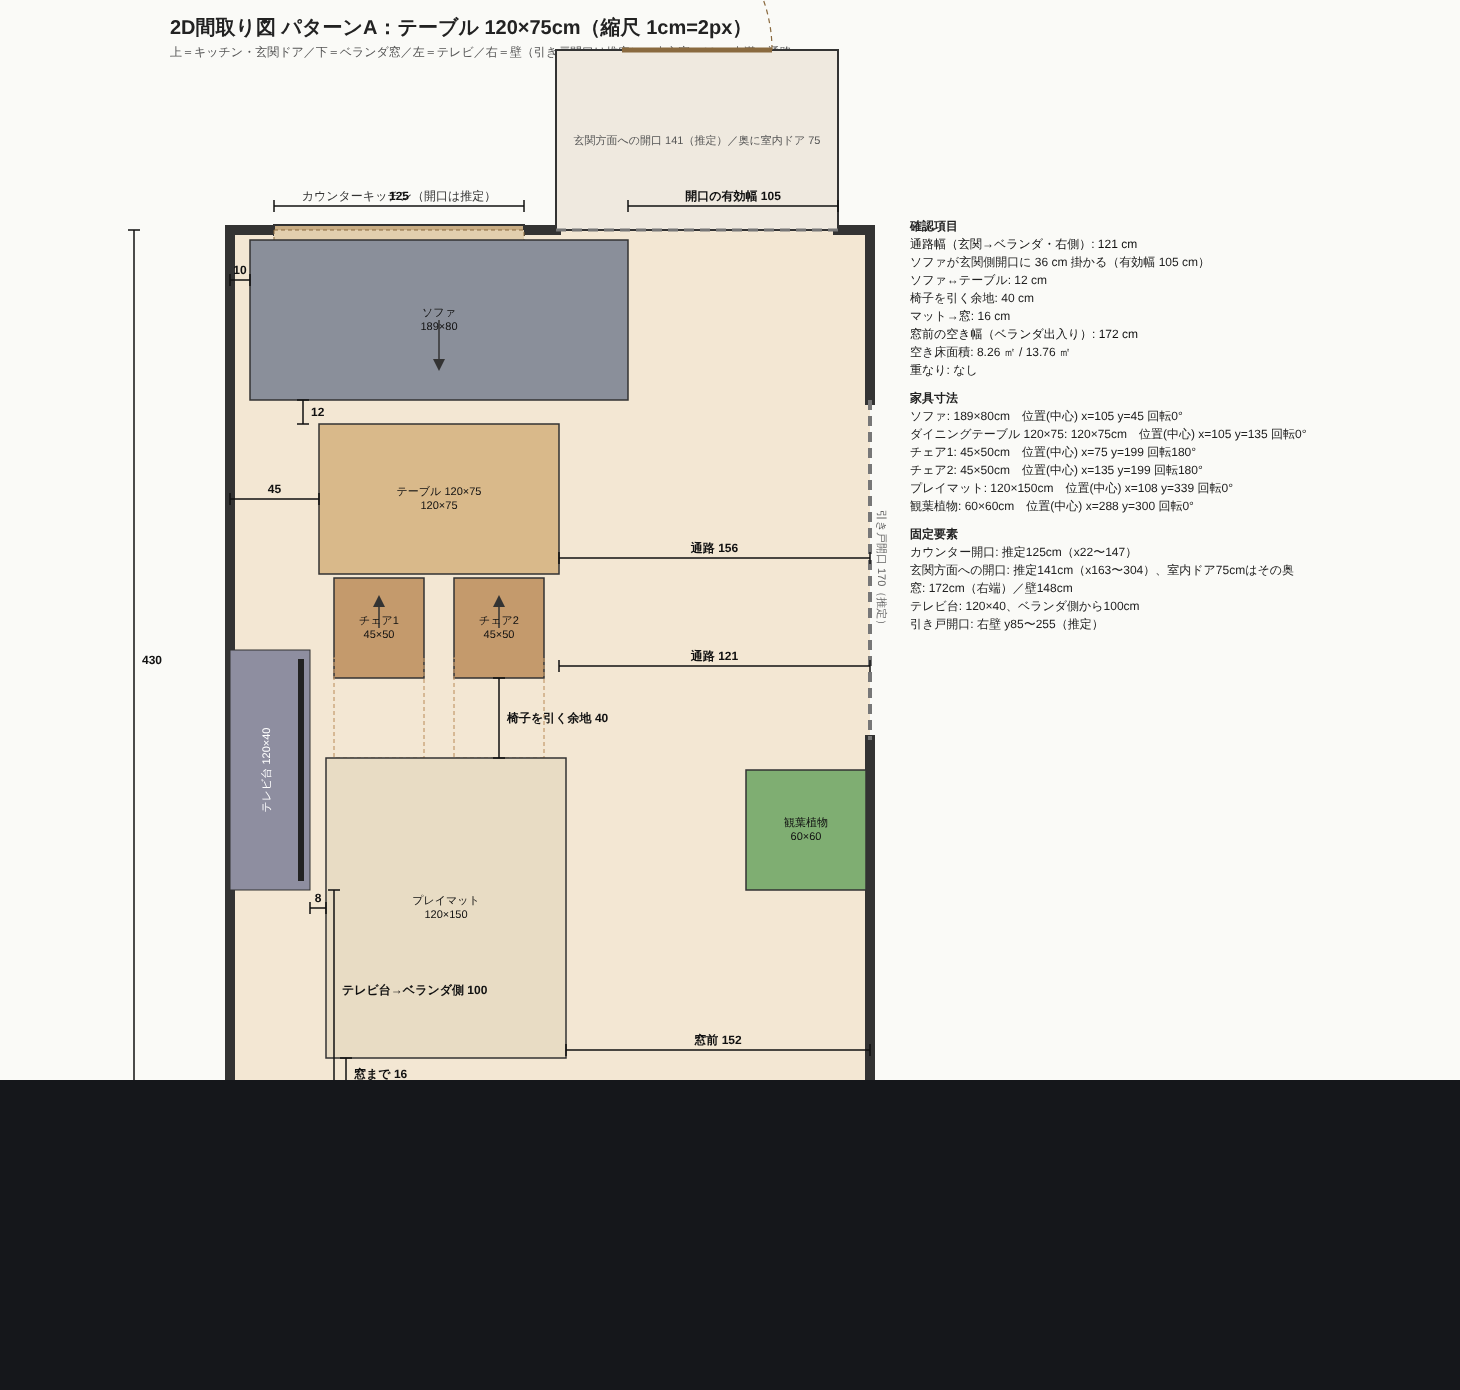
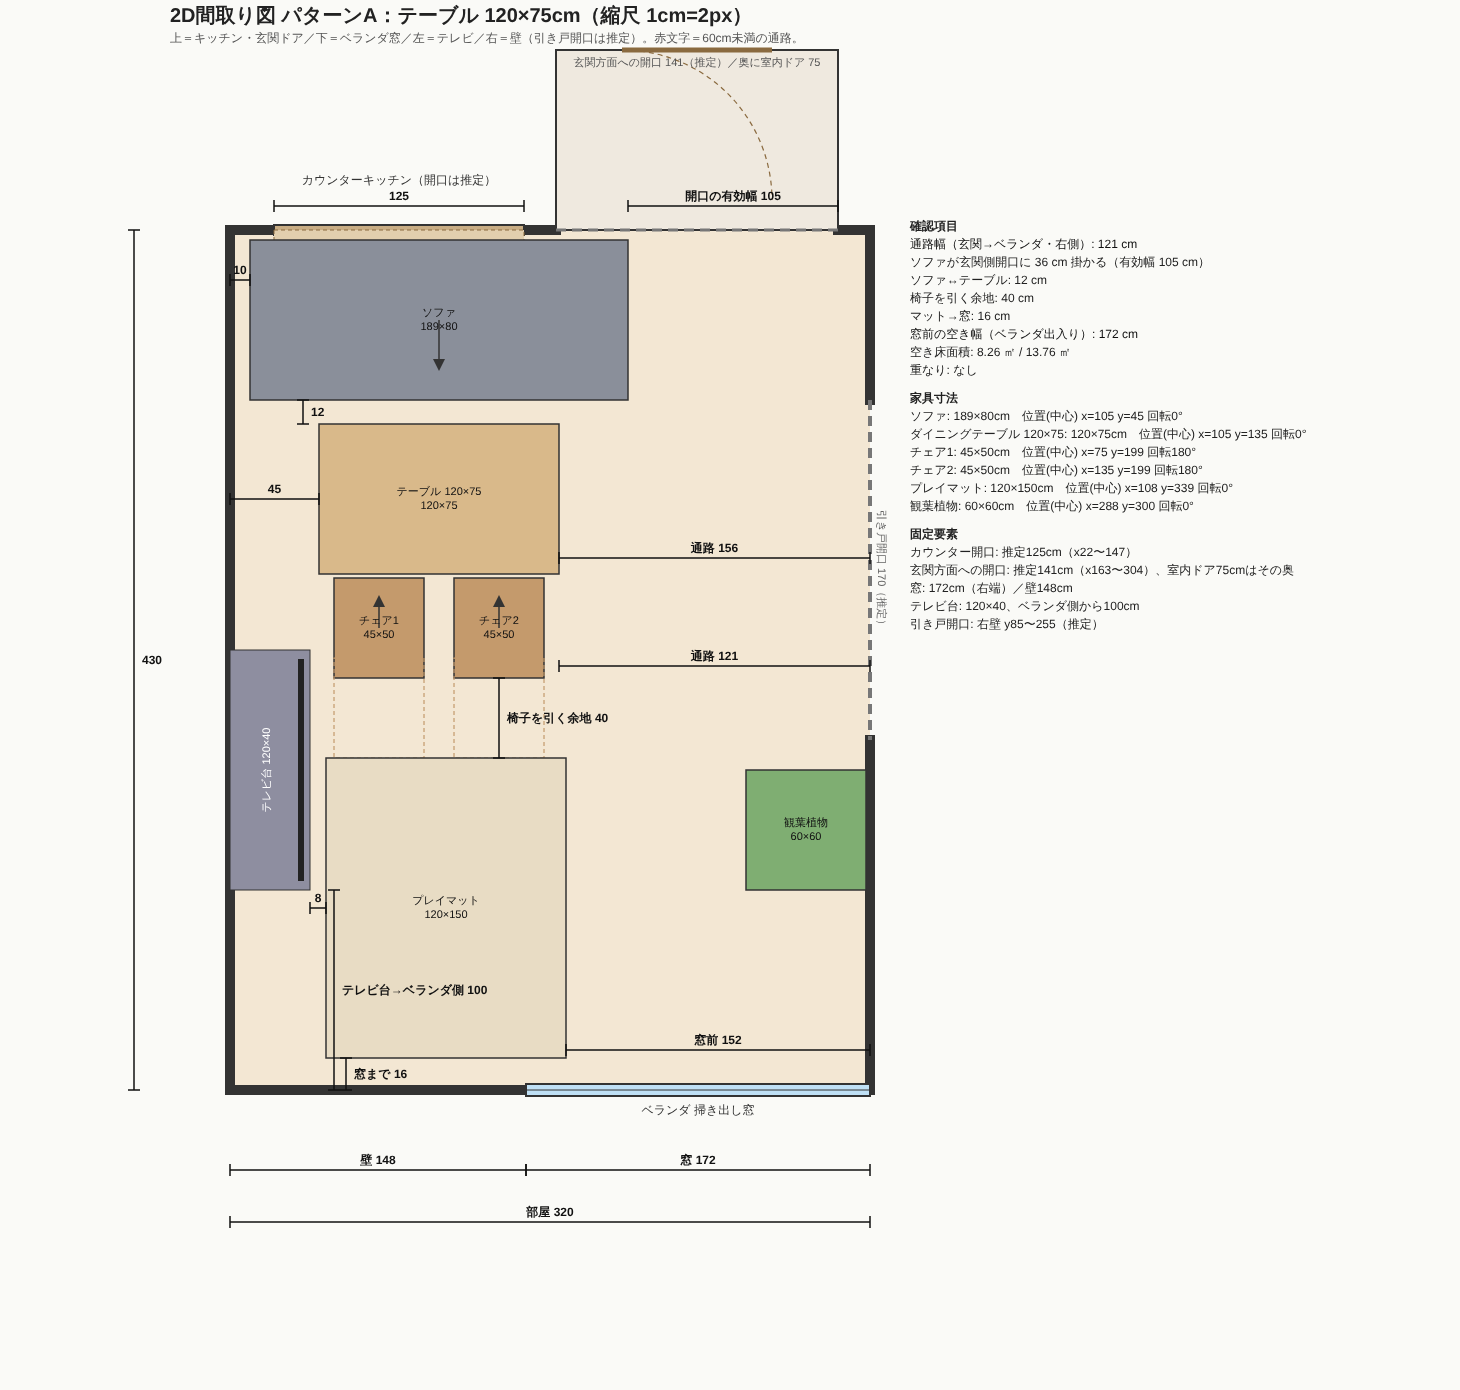
間取り図の描画範囲とラベル位置を修正
Claude-Session: https://claude.ai/code/session_01NbKKnhzaQXHyLQumRD7K4d

diff --git a/room-simulation/index.html b/room-simulation/index.html
@@ -56441,8 +56441,8 @@ function renderClear(){const C=clearances(); const rows=[
 /* ================= 2D plan (SVG) ================= */
 function planSVG(){const sc=2,m=230; const W=ROOM.W*sc,D=ROOM.D*sc; const X=x=>m+x*sc,Y=y=>m+y*sc; const C=clearances(); const s=[];
   s.push(`<svg xmlns="http://www.w3.org/2000/svg" width="${W+2*m+360}" height="${D+2*m+70}" viewBox="0 0 ${W+2*m+360} ${D+2*m+70}" style="background:#fafaf7">`);
-  s.push(`<text x="${m-60}" y="34" font-size="20" font-weight="700" fill="#222">2D間取り図 ${PATTERNS[state.pattern].label}：テーブル ${byId('table').w}×${byId('table').d}cm（縮尺 1cm=${sc}px）</text>`);
-  s.push(`<text x="${m-60}" y="56" font-size="12" fill="#555">上＝キッチン・玄関ドア／下＝ベランダ窓／左＝テレビ／右＝壁（引き戸開口は推定）。赤文字＝60cm未満の通路。</text>`);
+  s.push(`<text x="${m-60}" y="22" font-size="20" font-weight="700" fill="#222">2D間取り図 ${PATTERNS[state.pattern].label}：テーブル ${byId('table').w}×${byId('table').d}cm（縮尺 1cm=${sc}px）</text>`);
+  s.push(`<text x="${m-60}" y="42" font-size="12" fill="#555">上＝キッチン・玄関ドア／下＝ベランダ窓／左＝テレビ／右＝壁（引き戸開口は推定）。赤文字＝60cm未満の通路。</text>`);
   s.push(`<rect x="${X(0)}" y="${Y(0)}" width="${W}" height="${D}" fill="#f3e7d3"/>`);
   // walls
   const wall=(x0,y0,x1,y1)=>s.push(`<line x1="${X(x0)}" y1="${Y(y0)}" x2="${X(x1)}" y2="${Y(y1)}" stroke="#333" stroke-width="10" stroke-linecap="square"/>`);
@@ -56451,13 +56451,13 @@ function planSVG(){const sc=2,m=230; const W=ROOM.W*sc,D=ROOM.D*sc; const X=x=>m
   if(state.slide){wall(ROOM.W,0,ROOM.W,FIX.slide.y0); wall(ROOM.W,FIX.slide.y0+FIX.slide.w,ROOM.W,ROOM.D); s.push(`<line x1="${X(ROOM.W)}" y1="${Y(FIX.slide.y0)}" x2="${X(ROOM.W)}" y2="${Y(FIX.slide.y0+FIX.slide.w)}" stroke="#777" stroke-width="4" stroke-dasharray="10 6"/><text x="${X(ROOM.W)+8}" y="${Y(FIX.slide.y0+FIX.slide.w/2)}" font-size="11" fill="#666" transform="rotate(90 ${X(ROOM.W)+8} ${Y(FIX.slide.y0+FIX.slide.w/2)})" text-anchor="middle">引き戸開口 ${FIX.slide.w}（推定）</text>`);} else wall(ROOM.W,0,ROOM.W,ROOM.D);
   // counter opening
   s.push(`<rect x="${X(FIX.counter.x0)}" y="${Y(0)-5}" width="${(FIX.counter.x1-FIX.counter.x0)*sc}" height="10" fill="#c9ad84" stroke="#333" stroke-width="2"/><rect x="${X(FIX.counter.x0)}" y="${Y(0)}" width="${(FIX.counter.x1-FIX.counter.x0)*sc}" height="${FIX.counter.depth*sc}" fill="#e2cfae" stroke="#8a6a3f" stroke-width="1" stroke-dasharray="4 3"/>`);
-  s.push(`<text x="${X((FIX.counter.x0+FIX.counter.x1)/2)}" y="${Y(0)-30}" font-size="12" text-anchor="middle" fill="#333">カウンターキッチン（開口は推定）</text>`);
+  s.push(`<text x="${X((FIX.counter.x0+FIX.counter.x1)/2)}" y="${Y(0)-46}" font-size="12" text-anchor="middle" fill="#333">カウンターキッチン（開口は推定）</text>`);
   // passage opening to hallway, with the room door at the back of the recess
   const ps=FIX.passage, hd=ps.depth, pdx=ps.x0+(ps.w-ps.doorW)/2;
   s.push(`<rect x="${X(ps.x0)}" y="${Y(-hd)}" width="${ps.w*sc}" height="${hd*sc}" fill="#efe9df" stroke="#333" stroke-width="2"/>`);
   s.push(`<line x1="${X(ps.x0)}" y1="${Y(0)}" x2="${X(ps.x0+ps.w)}" y2="${Y(0)}" stroke="#777" stroke-width="3" stroke-dasharray="10 6"/>`);
-  s.push(`<line x1="${X(pdx)}" y1="${Y(-hd)}" x2="${X(pdx+ps.doorW)}" y2="${Y(-hd)}" stroke="#8a6a3f" stroke-width="5"/><path d="M ${X(pdx+ps.doorW)} ${Y(-hd)} A ${ps.doorW*sc} ${ps.doorW*sc} 0 0 0 ${X(pdx)} ${Y(-hd-ps.doorW)}" fill="none" stroke="#8a6a3f" stroke-width="1.2" stroke-dasharray="5 4"/>`);
-  s.push(`<text x="${X(ps.x0+ps.w/2)}" y="${Y(-hd/2)+4}" font-size="11" text-anchor="middle" fill="#555">玄関方面への開口 ${ps.w}（推定）／奥に室内ドア ${ps.doorW}</text>`);
+  s.push(`<line x1="${X(pdx)}" y1="${Y(-hd)}" x2="${X(pdx+ps.doorW)}" y2="${Y(-hd)}" stroke="#8a6a3f" stroke-width="5"/><path d="M ${X(pdx)} ${Y(-hd)} A ${ps.doorW*sc} ${ps.doorW*sc} 0 0 1 ${X(pdx+ps.doorW)} ${Y(-hd+ps.doorW)}" fill="none" stroke="#8a6a3f" stroke-width="1.2" stroke-dasharray="5 4"/>`);
+  s.push(`<text x="${X(ps.x0+ps.w/2)}" y="${Y(-hd)+16}" font-size="11" text-anchor="middle" fill="#555">玄関方面への開口 ${ps.w}（推定）／奥に室内ドア ${ps.doorW}</text>`);
   // window
   s.push(`<rect x="${X(FIX.window.x0)}" y="${Y(ROOM.D)-6}" width="${FIX.window.w*sc}" height="12" fill="#bfe0f5" stroke="#333" stroke-width="2"/><line x1="${X(FIX.window.x0)}" y1="${Y(ROOM.D)}" x2="${X(FIX.window.x0+FIX.window.w)}" y2="${Y(ROOM.D)}" stroke="#333" stroke-width="1"/>`);
   s.push(`<text x="${X(FIX.window.x0+FIX.window.w/2)}" y="${Y(ROOM.D)+24}" font-size="12" text-anchor="middle" fill="#333">ベランダ 掃き出し窓</text>`);

diff --git a/room-simulation/tools/room_template.html b/room-simulation/tools/room_template.html
@@ -358,8 +358,8 @@ function renderClear(){const C=clearances(); const rows=[
 /* ================= 2D plan (SVG) ================= */
 function planSVG(){const sc=2,m=230; const W=ROOM.W*sc,D=ROOM.D*sc; const X=x=>m+x*sc,Y=y=>m+y*sc; const C=clearances(); const s=[];
   s.push(`<svg xmlns="http://www.w3.org/2000/svg" width="${W+2*m+360}" height="${D+2*m+70}" viewBox="0 0 ${W+2*m+360} ${D+2*m+70}" style="background:#fafaf7">`);
-  s.push(`<text x="${m-60}" y="34" font-size="20" font-weight="700" fill="#222">2D間取り図 ${PATTERNS[state.pattern].label}：テーブル ${byId('table').w}×${byId('table').d}cm（縮尺 1cm=${sc}px）</text>`);
-  s.push(`<text x="${m-60}" y="56" font-size="12" fill="#555">上＝キッチン・玄関ドア／下＝ベランダ窓／左＝テレビ／右＝壁（引き戸開口は推定）。赤文字＝60cm未満の通路。</text>`);
+  s.push(`<text x="${m-60}" y="22" font-size="20" font-weight="700" fill="#222">2D間取り図 ${PATTERNS[state.pattern].label}：テーブル ${byId('table').w}×${byId('table').d}cm（縮尺 1cm=${sc}px）</text>`);
+  s.push(`<text x="${m-60}" y="42" font-size="12" fill="#555">上＝キッチン・玄関ドア／下＝ベランダ窓／左＝テレビ／右＝壁（引き戸開口は推定）。赤文字＝60cm未満の通路。</text>`);
   s.push(`<rect x="${X(0)}" y="${Y(0)}" width="${W}" height="${D}" fill="#f3e7d3"/>`);
   // walls
   const wall=(x0,y0,x1,y1)=>s.push(`<line x1="${X(x0)}" y1="${Y(y0)}" x2="${X(x1)}" y2="${Y(y1)}" stroke="#333" stroke-width="10" stroke-linecap="square"/>`);
@@ -368,13 +368,13 @@ function planSVG(){const sc=2,m=230; const W=ROOM.W*sc,D=ROOM.D*sc; const X=x=>m
   if(state.slide){wall(ROOM.W,0,ROOM.W,FIX.slide.y0); wall(ROOM.W,FIX.slide.y0+FIX.slide.w,ROOM.W,ROOM.D); s.push(`<line x1="${X(ROOM.W)}" y1="${Y(FIX.slide.y0)}" x2="${X(ROOM.W)}" y2="${Y(FIX.slide.y0+FIX.slide.w)}" stroke="#777" stroke-width="4" stroke-dasharray="10 6"/><text x="${X(ROOM.W)+8}" y="${Y(FIX.slide.y0+FIX.slide.w/2)}" font-size="11" fill="#666" transform="rotate(90 ${X(ROOM.W)+8} ${Y(FIX.slide.y0+FIX.slide.w/2)})" text-anchor="middle">引き戸開口 ${FIX.slide.w}（推定）</text>`);} else wall(ROOM.W,0,ROOM.W,ROOM.D);
   // counter opening
   s.push(`<rect x="${X(FIX.counter.x0)}" y="${Y(0)-5}" width="${(FIX.counter.x1-FIX.counter.x0)*sc}" height="10" fill="#c9ad84" stroke="#333" stroke-width="2"/><rect x="${X(FIX.counter.x0)}" y="${Y(0)}" width="${(FIX.counter.x1-FIX.counter.x0)*sc}" height="${FIX.counter.depth*sc}" fill="#e2cfae" stroke="#8a6a3f" stroke-width="1" stroke-dasharray="4 3"/>`);
-  s.push(`<text x="${X((FIX.counter.x0+FIX.counter.x1)/2)}" y="${Y(0)-30}" font-size="12" text-anchor="middle" fill="#333">カウンターキッチン（開口は推定）</text>`);
+  s.push(`<text x="${X((FIX.counter.x0+FIX.counter.x1)/2)}" y="${Y(0)-46}" font-size="12" text-anchor="middle" fill="#333">カウンターキッチン（開口は推定）</text>`);
   // passage opening to hallway, with the room door at the back of the recess
   const ps=FIX.passage, hd=ps.depth, pdx=ps.x0+(ps.w-ps.doorW)/2;
   s.push(`<rect x="${X(ps.x0)}" y="${Y(-hd)}" width="${ps.w*sc}" height="${hd*sc}" fill="#efe9df" stroke="#333" stroke-width="2"/>`);
   s.push(`<line x1="${X(ps.x0)}" y1="${Y(0)}" x2="${X(ps.x0+ps.w)}" y2="${Y(0)}" stroke="#777" stroke-width="3" stroke-dasharray="10 6"/>`);
-  s.push(`<line x1="${X(pdx)}" y1="${Y(-hd)}" x2="${X(pdx+ps.doorW)}" y2="${Y(-hd)}" stroke="#8a6a3f" stroke-width="5"/><path d="M ${X(pdx+ps.doorW)} ${Y(-hd)} A ${ps.doorW*sc} ${ps.doorW*sc} 0 0 0 ${X(pdx)} ${Y(-hd-ps.doorW)}" fill="none" stroke="#8a6a3f" stroke-width="1.2" stroke-dasharray="5 4"/>`);
-  s.push(`<text x="${X(ps.x0+ps.w/2)}" y="${Y(-hd/2)+4}" font-size="11" text-anchor="middle" fill="#555">玄関方面への開口 ${ps.w}（推定）／奥に室内ドア ${ps.doorW}</text>`);
+  s.push(`<line x1="${X(pdx)}" y1="${Y(-hd)}" x2="${X(pdx+ps.doorW)}" y2="${Y(-hd)}" stroke="#8a6a3f" stroke-width="5"/><path d="M ${X(pdx)} ${Y(-hd)} A ${ps.doorW*sc} ${ps.doorW*sc} 0 0 1 ${X(pdx+ps.doorW)} ${Y(-hd+ps.doorW)}" fill="none" stroke="#8a6a3f" stroke-width="1.2" stroke-dasharray="5 4"/>`);
+  s.push(`<text x="${X(ps.x0+ps.w/2)}" y="${Y(-hd)+16}" font-size="11" text-anchor="middle" fill="#555">玄関方面への開口 ${ps.w}（推定）／奥に室内ドア ${ps.doorW}</text>`);
   // window
   s.push(`<rect x="${X(FIX.window.x0)}" y="${Y(ROOM.D)-6}" width="${FIX.window.w*sc}" height="12" fill="#bfe0f5" stroke="#333" stroke-width="2"/><line x1="${X(FIX.window.x0)}" y1="${Y(ROOM.D)}" x2="${X(FIX.window.x0+FIX.window.w)}" y2="${Y(ROOM.D)}" stroke="#333" stroke-width="1"/>`);
   s.push(`<text x="${X(FIX.window.x0+FIX.window.w/2)}" y="${Y(ROOM.D)+24}" font-size="12" text-anchor="middle" fill="#333">ベランダ 掃き出し窓</text>`);

diff --git a/room-simulation/tools/render_room.js b/room-simulation/tools/render_room.js
@@ -6,7 +6,7 @@ const OUT='/home/user/cames-lp/room-simulation/renders'; const BASE='http://127.
   page.on('pageerror',e=>console.log('[pageerror]',e.message)); page.on('console',m=>{if(m.type()==='error')console.log('[console]',m.text().slice(0,200));});
   const shots=[['entrance','1_entrance_to_balcony'],['balcony','2_balcony_to_kitchen'],['overview','3_overview'],['photo','4_same_angle_as_photo2'],['photo1','4b_same_angle_as_photo1'],['top','5_top_view']];
   for(const pat of ['A','B']){
-    await page.goto(`${BASE}?ui=0&pattern=${pat}`,{waitUntil:'load'}); await page.waitForFunction(()=>window.__ready===true,{timeout:120000}); await page.waitForTimeout(1500);
+    await page.setViewportSize({width:1920,height:1080}); await page.goto(`${BASE}?ui=0&pattern=${pat}`,{waitUntil:'load'}); await page.waitForFunction(()=>window.__ready===true,{timeout:120000}); await page.waitForTimeout(1500);
     for(const [k,name] of shots){ await page.evaluate(k=>{window.__sim.state.labels=(k==='top'); window.__sim.update(); window.__sim.setPreset(k);},k); await page.waitForTimeout(900);
       const data=await page.evaluate(()=>window.__sim.shot()); fs.writeFileSync(`${OUT}/pattern${pat}_${name}.png`,Buffer.from(data.split(',')[1],'base64')); console.log('saved',pat,name); }
     // night version of photo angle
@@ -16,7 +16,7 @@ const OUT='/home/user/cames-lp/room-simulation/renders'; const BASE='http://127.
     // plan svg -> png
     await page.goto(`${BASE}?ui=0&pattern=${pat}&view=plan`,{waitUntil:'load'}); await page.waitForFunction(()=>window.__ready===true,{timeout:120000}); await page.waitForTimeout(800);
     const svg=await page.evaluate(()=>window.__sim.planSVG()); fs.writeFileSync(`/home/user/cames-lp/room-simulation/plans/plan_pattern${pat}.svg`,svg);
-    const el=await page.$('#planHost svg'); await el.screenshot({path:`${OUT}/plan_pattern${pat}.png`}); console.log('saved plan',pat);
+    await page.setViewportSize({width:1920,height:1600}); await page.waitForTimeout(300); const el=await page.$('#planHost svg'); await el.screenshot({path:`${OUT}/plan_pattern${pat}.png`}); console.log('saved plan',pat);
   }
   // UI screenshot
   await page.goto(`${BASE}?pattern=A`,{waitUntil:'load'}); await page.waitForFunction(()=>window.__ready===true,{timeout:120000}); await page.waitForTimeout(1500); await page.screenshot({path:`${OUT}/ui_overview.png`});
